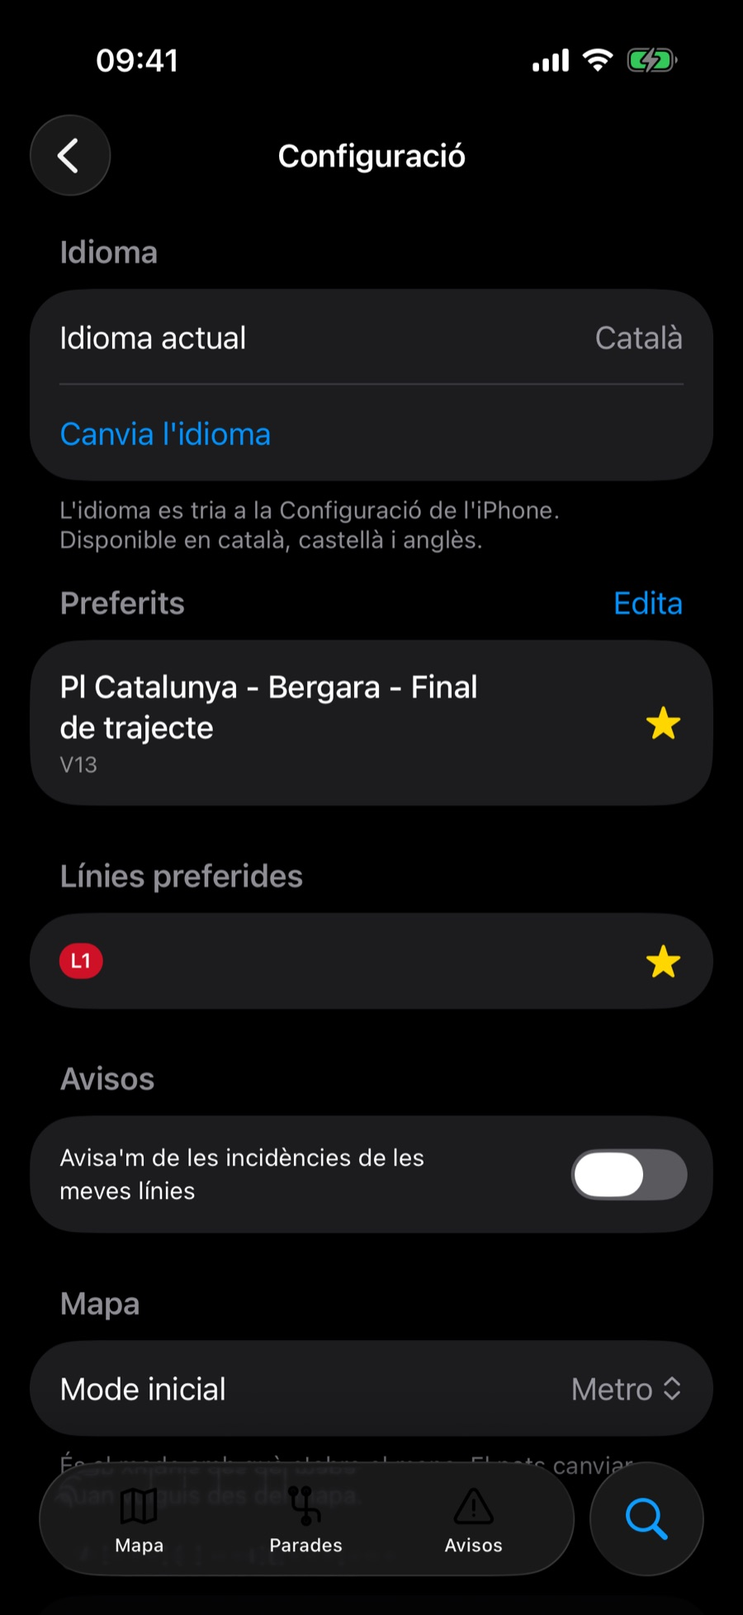
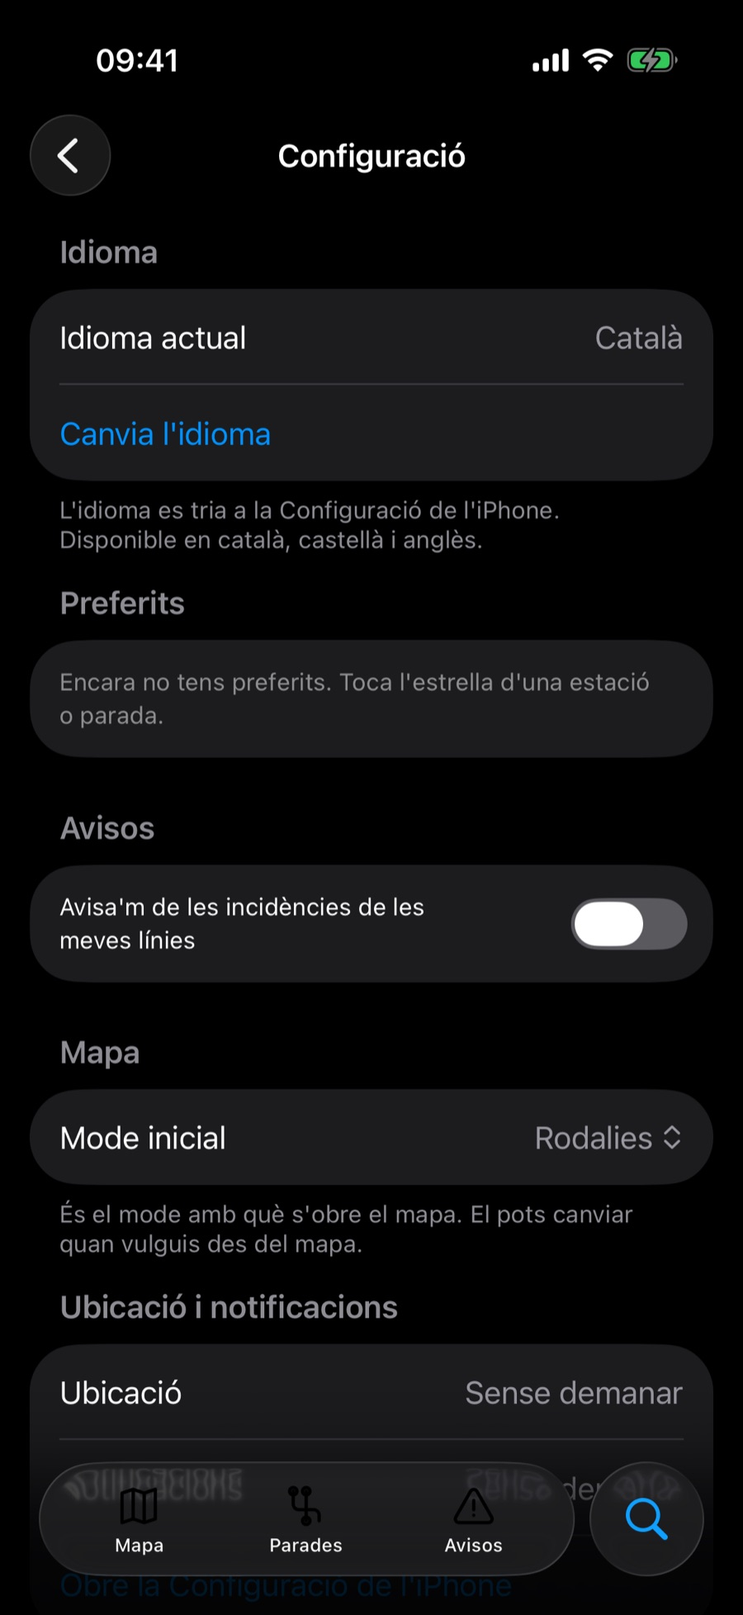
feat(website): Rodalies is a real chapter, Renfe joins the data credits
The Ben aviat teaser becomes a full chapter anchored on a fresh Rodalies
mode capture (R1 trains live on the Maresme coast), the settings capture
is refreshed with the new mode picker, and every privacy, support,
footer and meta mention now credits TMB, FGC and Renfe under CC BY 4.0
in Catalan, Spanish and English.

diff --git a/website/index.html b/website/index.html
@@ -4,7 +4,7 @@
   <meta charset="utf-8">
   <meta name="viewport" content="width=device-width, initial-scale=1">
   <title>TransportCat — El transport públic de Barcelona, en directe al teu iPhone</title>
-  <meta name="description" content="Mapa en temps real del metro, el bus i els trens de FGC a Barcelona. Arribades al segon, avisos d'incidències, widget i Live Activity. Gratis, en català i sense anuncis.">
+  <meta name="description" content="Mapa en temps real del metro, el bus i els trens de FGC i Rodalies a Barcelona. Arribades al segon, avisos d'incidències, widget i Live Activity. Gratis, en català i sense anuncis.">
   <link rel="canonical" href="https://transportcat.app/">
   <link rel="alternate" hreflang="es" href="https://transportcat.app/es/">
   <link rel="alternate" hreflang="en" href="https://transportcat.app/en/">
@@ -13,7 +13,7 @@
   <link rel="stylesheet" href="/css/main.css">
   <meta property="og:type" content="website">
   <meta property="og:title" content="TransportCat — El transport públic de Barcelona, en directe">
-  <meta property="og:description" content="Mapa en temps real del metro, el bus i els trens de FGC. Arribades al segon, avisos, widget i Live Activity. Gratis i en català.">
+  <meta property="og:description" content="Mapa en temps real del metro, el bus i els trens de FGC i Rodalies. Arribades al segon, avisos, widget i Live Activity. Gratis i en català.">
   <meta property="og:url" content="https://transportcat.app/">
   <meta property="og:image" content="https://transportcat.app/assets/mapa-tot.jpg">
   <meta name="theme-color" content="#0b1220">
@@ -24,7 +24,7 @@
     "name": "TransportCat",
     "operatingSystem": "iOS 26",
     "applicationCategory": "TravelApplication",
-    "description": "Mapa en temps real del metro, el bus i els trens de FGC a Barcelona, amb arribades al segon, avisos d'incidències, widget i Live Activity.",
+    "description": "Mapa en temps real del metro, el bus i els trens de FGC i Rodalies a Barcelona, amb arribades al segon, avisos d'incidències, widget i Live Activity.",
     "offers": { "@type": "Offer", "price": "0", "priceCurrency": "EUR" },
     "inLanguage": ["ca", "es", "en"],
     "url": "https://transportcat.app/"
@@ -60,7 +60,7 @@
     <section class="hero">
       <img class="motif" src="/assets/network-motif.svg" alt="" aria-hidden="true">
       <h1>El transport públic de Barcelona, en directe al teu iPhone.</h1>
-      <p class="sub">Tota la xarxa en un mapa viu: metro, bus i trens de FGC en temps real, amb les arribades de cada parada al segon. Gratis, en català i sense anuncis.</p>
+      <p class="sub">Tota la xarxa en un mapa viu: metro, bus i trens de FGC i Rodalies en temps real, amb les arribades de cada parada al segon. Gratis, en català i sense anuncis.</p>
       <a class="btn btn-lg" href="#">Baixa't a l'App Store</a>
       <p class="meta">Per a iPhone · iOS 26 o posterior · Widgets, Live Activity i Apple Watch</p>
       <div class="hero-duo">
@@ -101,7 +101,7 @@
             <p class="lead">Obre l'app i tens la ciutat sencera davant: el traçat de cada línia amb el seu color real, els trens i busos que s'hi mouen segon a segon i els incidents marcats allà on passen.</p>
           </div>
           <div class="step">
-            <h3>Quatre modes: Tot, Metro, Bus i FGC</h3>
+            <h3>Cinc modes: Tot, Metro, Bus, FGC i Rodalies</h3>
             <p>Canvia de mode amb un toc i el mapa es torna de l'un a l'altre. El mode Tot ho pinta tot; el mode inicial es tria a la Configuració.</p>
           </div>
           <div class="step">
@@ -238,18 +238,26 @@
         </div>
       </section>
 
-      <section class="chapter solo reveal" id="ben-aviat">
-        <h2>Ben aviat: Rodalies</h2>
-        <p class="lead">Els trens de Rodalies de Catalunya ja estan camí de TransportCat: horaris oficials publicats cada dia i temps real, amb el mateix esperit de sempre.</p>
-        <div class="teaser">
-          <span class="status"><span class="dot"></span>En desenvolupament</span>
-          <p>Estàs llegint aquesta pàgina des del mateix tren on es construeix: la xarxa de Rodalies ja s'està integrant i arribarà en una pròxima actualització.</p>
+      <section class="chapter flip reveal" id="rodalies">
+        <div class="chapter-text">
+          <h2>Ara també Rodalies</h2>
+          <p class="lead">Els trens de Rodalies de Catalunya ja tenen lloc a TransportCat: la línia triada al mapa amb els seus trens en directe i la posició GPS de Renfe, les estacions en ordre a Parades i les properes sortides de cada estació amb els retards del temps real.</p>
+          <ul class="points">
+            <li><span class="dot"></span>19 línies del nucli de Catalunya</li>
+            <li><span class="dot"></span>Trens en moviment amb el rètol «En directe»</li>
+            <li><span class="dot"></span>Horaris oficials de Renfe, publicats cada dia</li>
+          </ul>
+        </div>
+        <div class="chapter-media">
+          <figure class="device">
+            <img src="/assets/rodalies.jpg" alt="El mapa de TransportCat en mode Rodalies amb els trens R1 en directe pel Maresme i el rètol Dades: Renfe, CC BY 4.0." loading="lazy" width="900" height="1956">
+          </figure>
         </div>
       </section>
 
       <section class="chapter solo reveal" id="privadesa-dades">
         <h2>Les teves dades es queden al telèfon</h2>
-        <p class="lead">TransportCat no té compte, no et segueix i no recull dades personals. La ubicació només es fa servir al dispositiu per trobar les parades properes. Les dades de la xarxa vénen dels portals de dades obertes de TMB i FGC (CC BY 4.0).</p>
+        <p class="lead">TransportCat no té compte, no et segueix i no recull dades personals. La ubicació només es fa servir al dispositiu per trobar les parades properes. Les dades de la xarxa vénen dels portals de dades obertes de TMB, FGC i Renfe (CC BY 4.0).</p>
         <p><a href="/privadesa">Llegeix la política de privadesa</a></p>
       </section>
 
@@ -275,7 +283,7 @@
         <a href="/en/">English</a>
       </div>
       <small>
-        Dades de la xarxa: TMB i FGC, sota llicència CC BY 4.0. TransportCat no és una aplicació oficial de TMB ni de FGC.<br>
+        Dades de la xarxa: TMB, FGC i Renfe, sota llicència CC BY 4.0. TransportCat no és una aplicació oficial de TMB, FGC ni Renfe.<br>
         © 2026 Albert Castellví
       </small>
     </div>

diff --git a/website/es/index.html b/website/es/index.html
@@ -4,7 +4,7 @@
   <meta charset="utf-8">
   <meta name="viewport" content="width=device-width, initial-scale=1">
   <title>TransportCat — El transporte público de Barcelona, en directo en tu iPhone</title>
-  <meta name="description" content="Mapa en tiempo real del metro, el bus y los trenes de FGC en Barcelona. Llegadas al segundo, avisos de incidencias, widget y Live Activity. Gratis y sin anuncios.">
+  <meta name="description" content="Mapa en tiempo real del metro, el bus y los trenes de FGC y Rodalies en Barcelona. Llegadas al segundo, avisos de incidencias, widget y Live Activity. Gratis y sin anuncios.">
   <link rel="canonical" href="https://transportcat.app/es/">
   <link rel="alternate" hreflang="ca" href="https://transportcat.app/">
   <link rel="alternate" hreflang="en" href="https://transportcat.app/en/">
@@ -13,7 +13,7 @@
   <link rel="stylesheet" href="/css/main.css">
   <meta property="og:type" content="website">
   <meta property="og:title" content="TransportCat — El transporte público de Barcelona, en directo">
-  <meta property="og:description" content="Mapa en tiempo real del metro, el bus y los trenes de FGC. Llegadas al segundo, avisos, widget y Live Activity. Gratis y sin anuncios.">
+  <meta property="og:description" content="Mapa en tiempo real del metro, el bus y los trenes de FGC y Rodalies. Llegadas al segundo, avisos, widget y Live Activity. Gratis y sin anuncios.">
   <meta property="og:url" content="https://transportcat.app/es/">
   <meta property="og:image" content="https://transportcat.app/assets/mapa-tot.jpg">
   <meta property="theme-color" content="#0b1220">
@@ -47,7 +47,7 @@
     <section class="hero">
       <img class="motif" src="/assets/network-motif.svg" alt="" aria-hidden="true">
       <h1>El transporte público de Barcelona, en directo en tu iPhone.</h1>
-      <p class="sub">Toda la red en un mapa vivo: metro, autobús y trenes de FGC en tiempo real, con las llegadas de cada parada al segundo. Gratis y sin anuncios.</p>
+      <p class="sub">Toda la red en un mapa vivo: metro, autobús y trenes de FGC y Rodalies en tiempo real, con las llegadas de cada parada al segundo. Gratis y sin anuncios.</p>
       <a class="btn btn-lg" href="#">Descárgala en el App Store</a>
       <p class="meta">Para iPhone · iOS 26 o posterior · Widgets, Live Activity y Apple Watch</p>
       <div class="hero-duo">
@@ -88,7 +88,7 @@
             <p class="lead">Abre la app y tienes la ciudad entera delante: el trazado de cada línea con su color real, los trenes y autobuses que se mueven segundo a segundo y los incidentes marcados donde ocurren.</p>
           </div>
           <div class="step">
-            <h3>Cuatro modos: Todo, Metro, Bus y FGC</h3>
+            <h3>Cinco modos: Todo, Metro, Bus, FGC y Rodalies</h3>
             <p>Cambia de modo con un toque y el mapa pasa de uno a otro. El modo Todo lo pinta todo; el modo inicial se elige en Ajustes.</p>
           </div>
           <div class="step">
@@ -225,18 +225,26 @@
         </div>
       </section>
 
-      <section class="chapter solo reveal" id="ben-aviat">
-        <h2>Muy pronto: Rodalies</h2>
-        <p class="lead">Los trenes de Rodalies de Catalunya ya están camino de TransportCat: horarios oficiales publicados cada día y tiempo real, con el mismo espíritu de siempre.</p>
-        <div class="teaser">
-          <span class="status"><span class="dot"></span>En desarrollo</span>
-          <p>Estás leyendo esta página desde el mismo tren donde se construye: la red de Rodalies ya se está integrando y llegará en una próxima actualización.</p>
+      <section class="chapter flip reveal" id="rodalies">
+        <div class="chapter-text">
+          <h2>Ahora también Rodalies</h2>
+          <p class="lead">Los trenes de Rodalies de Catalunya ya tienen sitio en TransportCat: la línea elegida en el mapa con sus trenes en directo y la posición GPS de Renfe, las estaciones en orden en Paradas y las próximas salidas de cada estación con los retrasos del tiempo real.</p>
+          <ul class="points">
+            <li><span class="dot"></span>19 líneas del núcleo de Cataluña</li>
+            <li><span class="dot"></span>Trenes en movimiento con el rótulo «En directo»</li>
+            <li><span class="dot"></span>Horarios oficiales de Renfe, publicados cada día</li>
+          </ul>
+        </div>
+        <div class="chapter-media">
+          <figure class="device">
+            <img src="/assets/rodalies.jpg" alt="El mapa de TransportCat en modo Rodalies con los trenes R1 en directo por el Maresme y el rótulo Datos: Renfe, CC BY 4.0." loading="lazy" width="900" height="1956">
+          </figure>
         </div>
       </section>
 
       <section class="chapter solo reveal" id="privadesa-dades">
         <h2>Tus datos se quedan en el teléfono</h2>
-        <p class="lead">TransportCat no tiene cuenta, no te sigue y no recoge datos personales. La ubicación solo se usa en el dispositivo para encontrar las paradas cercanas. Los datos de la red vienen de los portales de datos abiertos de TMB y FGC (CC BY 4.0).</p>
+        <p class="lead">TransportCat no tiene cuenta, no te sigue y no recoge datos personales. La ubicación solo se usa en el dispositivo para encontrar las paradas cercanas. Los datos de la red vienen de los portales de datos abiertos de TMB, FGC y Renfe (CC BY 4.0).</p>
         <p><a href="/es/privadesa">Lee la política de privacidad</a></p>
       </section>
 
@@ -262,7 +270,7 @@
         <a href="/en/">English</a>
       </div>
       <small>
-        Datos de la red: TMB y FGC, bajo licencia CC BY 4.0. TransportCat no es una aplicación oficial de TMB ni de FGC.<br>
+        Datos de la red: TMB, FGC y Renfe, bajo licencia CC BY 4.0. TransportCat no es una aplicación oficial de TMB, FGC ni Renfe.<br>
         © 2026 Albert Castellví
       </small>
     </div>

diff --git a/website/en/index.html b/website/en/index.html
@@ -4,7 +4,7 @@
   <meta charset="utf-8">
   <meta name="viewport" content="width=device-width, initial-scale=1">
   <title>TransportCat — Barcelona public transport, live on your iPhone</title>
-  <meta name="description" content="Real-time map of Barcelona's metro, buses and FGC trains. Second-by-second arrivals, service alerts, widgets and Live Activities. Free, no ads.">
+  <meta name="description" content="Real-time map of Barcelona's metro, buses and FGC and Rodalies trains. Second-by-second arrivals, service alerts, widgets and Live Activities. Free, no ads.">
   <link rel="canonical" href="https://transportcat.app/en/">
   <link rel="alternate" hreflang="ca" href="https://transportcat.app/">
   <link rel="alternate" hreflang="es" href="https://transportcat.app/es/">
@@ -13,7 +13,7 @@
   <link rel="stylesheet" href="/css/main.css">
   <meta property="og:type" content="website">
   <meta property="og:title" content="TransportCat — Barcelona public transport, live">
-  <meta property="og:description" content="Real-time map of Barcelona's metro, buses and FGC trains. Second-by-second arrivals, service alerts, widgets and Live Activities. Free, no ads.">
+  <meta property="og:description" content="Real-time map of Barcelona's metro, buses and FGC and Rodalies trains. Second-by-second arrivals, service alerts, widgets and Live Activities. Free, no ads.">
   <meta property="og:url" content="https://transportcat.app/en/">
   <meta property="og:image" content="https://transportcat.app/assets/mapa-tot.jpg">
   <meta property="theme-color" content="#0b1220">
@@ -47,7 +47,7 @@
     <section class="hero">
       <img class="motif" src="/assets/network-motif.svg" alt="" aria-hidden="true">
       <h1>Barcelona's public transport, live on your iPhone.</h1>
-      <p class="sub">The whole network on a live map: metro, buses and FGC trains in real time, with next arrivals for every stop. Free, and no ads.</p>
+      <p class="sub">The whole network on a live map: metro, buses and FGC and Rodalies trains in real time, with next arrivals for every stop. Free, and no ads.</p>
       <a class="btn btn-lg" href="#">Download on the App Store</a>
       <p class="meta">For iPhone · iOS 26 or later · Widgets, Live Activities and Apple Watch</p>
       <div class="hero-duo">
@@ -88,7 +88,7 @@
             <p class="lead">Open the app and the entire city is in front of you: every line drawn in its real colour, trains and buses moving second by second, incidents marked where they happen.</p>
           </div>
           <div class="step">
-            <h3>Four modes: All, Metro, Bus and FGC</h3>
+            <h3>Five modes: All, Metro, Bus, FGC and Rodalies</h3>
             <p>Switch modes with a tap and the map turns from one to the other. All paints everything; the starting mode is picked in Settings.</p>
           </div>
           <div class="step">
@@ -225,18 +225,26 @@
         </div>
       </section>
 
-      <section class="chapter solo reveal" id="ben-aviat">
-        <h2>Coming soon: Rodalies</h2>
-        <p class="lead">Rodalies de Catalunya trains are on their way to TransportCat: official timetables published daily and real-time, in the same spirit as always.</p>
-        <div class="teaser">
-          <span class="status"><span class="dot"></span>In development</span>
-          <p>You're reading this page from the very train where it's being built: the Rodalies network is already being integrated and will arrive in an upcoming update.</p>
+      <section class="chapter flip reveal" id="rodalies">
+        <div class="chapter-text">
+          <h2>Now with Rodalies</h2>
+          <p class="lead">Rodalies de Catalunya trains now have a home in TransportCat: the chosen line on the map with its trains live and Renfe's GPS positions, the stations in order in Stops, and every station's next departures with the real-time delays.</p>
+          <ul class="points">
+            <li><span class="dot"></span>19 lines in the Catalonia nucleus</li>
+            <li><span class="dot"></span>Trains on the move under the live badge</li>
+            <li><span class="dot"></span>Renfe's official timetables, published daily</li>
+          </ul>
+        </div>
+        <div class="chapter-media">
+          <figure class="device">
+            <img src="/assets/rodalies.jpg" alt="TransportCat's map in Rodalies mode with R1 trains live along the Maresme coast and the Data: Renfe, CC BY 4.0 badge." loading="lazy" width="900" height="1956">
+          </figure>
         </div>
       </section>
 
       <section class="chapter solo reveal" id="privadesa-dades">
         <h2>Your data stays on your phone</h2>
-        <p class="lead">TransportCat has no account, doesn't track you and collects no personal data. Location is only used on the device to find nearby stops. Network data comes from the TMB and FGC open data portals (CC BY 4.0).</p>
+        <p class="lead">TransportCat has no account, doesn't track you and collects no personal data. Location is only used on the device to find nearby stops. Network data comes from the TMB, FGC and Renfe open data portals (CC BY 4.0).</p>
         <p><a href="/en/privacy">Read the privacy policy</a></p>
       </section>
 
@@ -262,7 +270,7 @@
         <a href="/es/">Español</a>
       </div>
       <small>
-        Network data: TMB and FGC, licensed CC BY 4.0. TransportCat is not an official TMB or FGC application.<br>
+        Network data: TMB, FGC and Renfe, licensed CC BY 4.0. TransportCat is not an official TMB, FGC or Renfe application.<br>
         © 2026 Albert Castellví
       </small>
     </div>

diff --git a/website/es/privadesa.html b/website/es/privadesa.html
@@ -48,8 +48,8 @@
       </ul>
 
       <h2>De dónde vienen los datos de transporte</h2>
-      <p>Las llegadas, trazados y avisos vienen de los portales de datos abiertos de <strong>TMB y FGC</strong>, con licencia <strong>CC BY 4.0</strong>. La app los consulta directamente desde el teléfono; no pasan por ningún servidor intermedio nuestro.</p>
-      <p><strong>TransportCat no es una aplicación oficial de TMB ni de FGC</strong> y no tiene ninguna vinculación con ellas.</p>
+      <p>Las llegadas, trazados y avisos vienen de los portales de datos abiertos de <strong>TMB, FGC y Renfe</strong>, con licencia <strong>CC BY 4.0</strong>. La app los consulta directamente desde el teléfono; no pasan por ningún servidor intermedio nuestro.</p>
+      <p><strong>TransportCat no es una aplicación oficial de TMB, FGC ni Renfe</strong> y no tiene ninguna vinculación con ellas.</p>
 
       <h2>Terceros</h2>
       <p>El único tercero implicado es <strong>Sentry</strong> (getsentry.com) como servicio de diagnóstico de errores, descrito más arriba. No hay terceros publicitarios, analíticas de terceros ni ninguna otra integración.</p>
@@ -71,7 +71,7 @@
         <a href="/es/soporte">Soporte</a>
         <a href="mailto:acastellvi@protonmail.com">acastellvi@protonmail.com</a>
       </div>
-      <small>Datos de la red: TMB y FGC, bajo licencia CC BY 4.0. TransportCat no es una aplicación oficial de TMB ni de FGC.<br>© 2026 Albert Castellví</small>
+      <small>Datos de la red: TMB, FGC y Renfe, bajo licencia CC BY 4.0. TransportCat no es una aplicación oficial de TMB, FGC ni Renfe.<br>© 2026 Albert Castellví</small>
     </div>
   </footer>
 </body>

diff --git a/website/privadesa.html b/website/privadesa.html
@@ -48,8 +48,8 @@
       </ul>
 
       <h2>De d'on venen les dades de transport</h2>
-      <p>Les arribades, traçats i avisos venen dels portals de dades obertes de <strong>TMB i FGC</strong>, amb llicència <strong>CC BY 4.0</strong>. L'app els consulta directament des del telèfon; no passem per cap servidor intermediari nostre.</p>
-      <p><strong>TransportCat no és una aplicació oficial de TMB ni de FGC</strong> i no hi té cap vinculació.</p>
+      <p>Les arribades, traçats i avisos venen dels portals de dades obertes de <strong>TMB, FGC i Renfe</strong>, amb llicència <strong>CC BY 4.0</strong>. L'app els consulta directament des del telèfon; no passem per cap servidor intermediari nostre.</p>
+      <p><strong>TransportCat no és una aplicació oficial de TMB, FGC ni Renfe</strong> i no hi té cap vinculació amb ells.</p>
 
       <h2>Tercers</h2>
       <p>L'única terç implicat és <strong>Sentry</strong> (getsentry.com) com a servei de diagnòstic d'errors, descrit més amunt. No hi ha terços publicitaris, analítics de tercers ni cap altra integració.</p>
@@ -71,7 +71,7 @@
         <a href="/suport">Suport</a>
         <a href="mailto:acastellvi@protonmail.com">acastellvi@protonmail.com</a>
       </div>
-      <small>Dades de la xarxa: TMB i FGC, sota llicència CC BY 4.0. TransportCat no és una aplicació oficial de TMB ni de FGC.<br>© 2026 Albert Castellví</small>
+      <small>Dades de la xarxa: TMB, FGC i Renfe, sota llicència CC BY 4.0. TransportCat no és una aplicació oficial de TMB, FGC ni Renfe.<br>© 2026 Albert Castellví</small>
     </div>
   </footer>
 </body>

diff --git a/website/es/soporte.html b/website/es/soporte.html
@@ -46,7 +46,7 @@
       <h2>Preguntas frecuentes</h2>
 
       <h3>¿De dónde vienen las llegadas?</h3>
-      <p>De los portales de datos abiertos de TMB y FGC (CC BY 4.0), consultados en directo desde tu teléfono. Si TMB o FGC tienen una incidencia en sus fuentes, la app lo muestra lo mejor posible, pero el tiempo real depende del servicio original.</p>
+      <p>De los portales de datos abiertos de TMB, FGC y Renfe (CC BY 4.0), consultados en directo desde tu teléfono. Si TMB o FGC tienen una incidencia en sus fuentes, la app lo muestra lo mejor posible, pero el tiempo real depende del servicio original.</p>
 
       <h3>No veo ningún tren en la línea, pero sé que hay servicio</h3>
       <p>A veces la fuente oficial no publica posiciones para una línea o trayecto concreto (por ejemplo, la flota teórica en algún momento del día). La app lo indica en lugar de inventarse trenes. Prueba a reabrir el mapa o cambiar de línea y volver.</p>
@@ -57,8 +57,8 @@
       <h3>¿Puedo cambiar el idioma de la app?</h3>
       <p>Sí: el idioma se elige en Ajustes del iPhone › TransportCat › Idioma, con catalán, castellano e inglés disponibles.</p>
 
-      <h3>¿Y Rodalies, cuándo?</h3>
-      <p>Es lo que se está construyendo ahora mismo: los horarios oficiales publicados cada día y el tiempo real de Rodalies de Catalunya llegarán en una próxima actualización.</p>
+      <h3>¿Y Rodalies?</h3>
+      <p>Ya está aquí: Rodalies de Catalunya tiene su propio modo, con los trenes en directo en el mapa y los horarios oficiales de Renfe publicados cada día.</p>
     </article>
   </main>
 

diff --git a/website/en/privacy.html b/website/en/privacy.html
@@ -48,8 +48,8 @@
       </ul>
 
       <h2>Where the transport data comes from</h2>
-      <p>Arrivals, line geometries and alerts come from the open data portals of <strong>TMB and FGC</strong>, licensed <strong>CC BY 4.0</strong>. The app queries them directly from the phone; there is no intermediate server of ours.</p>
-      <p><strong>TransportCat is not an official TMB or FGC application</strong> and has no affiliation with them.</p>
+      <p>Arrivals, line geometries and alerts come from the open data portals of <strong>TMB, FGC and Renfe</strong>, licensed <strong>CC BY 4.0</strong>. The app queries them directly from the phone; there is no intermediate server of ours.</p>
+      <p><strong>TransportCat is not an official TMB, FGC or Renfe application</strong> and has no affiliation with them.</p>
 
       <h2>Third parties</h2>
       <p>The only third party involved is <strong>Sentry</strong> (getsentry.com) as an error diagnostics service, as described above. There are no advertising third parties, no third-party analytics and no other integrations.</p>
@@ -71,7 +71,7 @@
         <a href="/en/support">Support</a>
         <a href="mailto:acastellvi@protonmail.com">acastellvi@protonmail.com</a>
       </div>
-      <small>Network data: TMB and FGC, licensed CC BY 4.0. TransportCat is not an official TMB or FGC application.<br>© 2026 Albert Castellví</small>
+      <small>Network data: TMB, FGC and Renfe, licensed CC BY 4.0. TransportCat is not an official TMB, FGC or Renfe application.<br>© 2026 Albert Castellví</small>
     </div>
   </footer>
 </body>

diff --git a/website/suport.html b/website/suport.html
@@ -46,7 +46,7 @@
       <h2>Preguntes freqüents</h2>
 
       <h3>De d'on venen les arribades?</h3>
-      <p>Dels portals de dades obertes de TMB i FGC (CC BY 4.0), consultats en directe des del teu telèfon. Si TMB o FGC tenen una incidència a les seves fonts, l'app ho mostra el millor possible, però el temps real depèn del servei original.</p>
+      <p>Dels portals de dades obertes de TMB, FGC i Renfe (CC BY 4.0), consultats en directe des del teu telèfon. Si TMB o FGC tenen una incidència a les seves fonts, l'app ho mostra el millor possible, però el temps real depèn del servei original.</p>
 
       <h3>No veig cap tren a la línia, però sé que hi ha servei</h3>
       <p>De vegades la font oficial no publica posicions per a una línia o trajecte concret (per exemple, la flota teòrica en algun moment del dia). L'app ho indica en comptes d'inventar trens. Prova de tornar a obrir el mapa o canviar de línia i torna.</p>
@@ -57,8 +57,8 @@
       <h3>Puc canviar l'idioma de l'app?</h3>
       <p>Sí: la llengua es tria a la Configuració de l'iPhone › TransportCat › Idioma, amb català, castellà i anglès disponibles.</p>
 
-      <h3>I Rodalies, quan?</h3>
-      <p>És el que s'està construint ara mateix: horaris oficials publicats cada dia i temps real de Rodalies de Catalunya arribaran en una propera actualització.</p>
+      <h3>I Rodalies?</h3>
+      <p>Ja hi és: Rodalies de Catalunya té el seu propi mode, amb els trens en directe al mapa i els horaris oficials de Renfe publicats cada dia.</p>
     </article>
   </main>
 

diff --git a/website/en/support.html b/website/en/support.html
@@ -46,7 +46,7 @@
       <h2>Frequently asked questions</h2>
 
       <h3>Where do the arrivals come from?</h3>
-      <p>From the TMB and FGC open data portals (CC BY 4.0), queried live from your phone. If TMB or FGC have an issue with their sources, the app shows it as best it can, but real time depends on the original service.</p>
+      <p>From the TMB, FGC and Renfe open data portals (CC BY 4.0), queried live from your phone. If TMB or FGC have an issue with their sources, the app shows it as best it can, but real time depends on the original service.</p>
 
       <h3>I see no trains on the line, but I know there is service</h3>
       <p>Sometimes the official source doesn't publish positions for a specific line or stretch (for example, the theoretical fleet at some point in the day). The app says so rather than inventing trains. Try reopening the map or switching lines and back.</p>
@@ -58,7 +58,7 @@
       <p>Yes: the language is chosen in iPhone Settings › TransportCat › Language, with Catalan, Spanish and English available.</p>
 
       <h3>What about Rodalies?</h3>
-      <p>That's what's being built right now: official timetables published daily and real-time for Rodalies de Catalunya will arrive in an upcoming update.</p>
+      <p>It's already here: Rodalies de Catalunya has its own mode, with trains live on the map and Renfe's official timetables published daily.</p>
     </article>
   </main>
 
